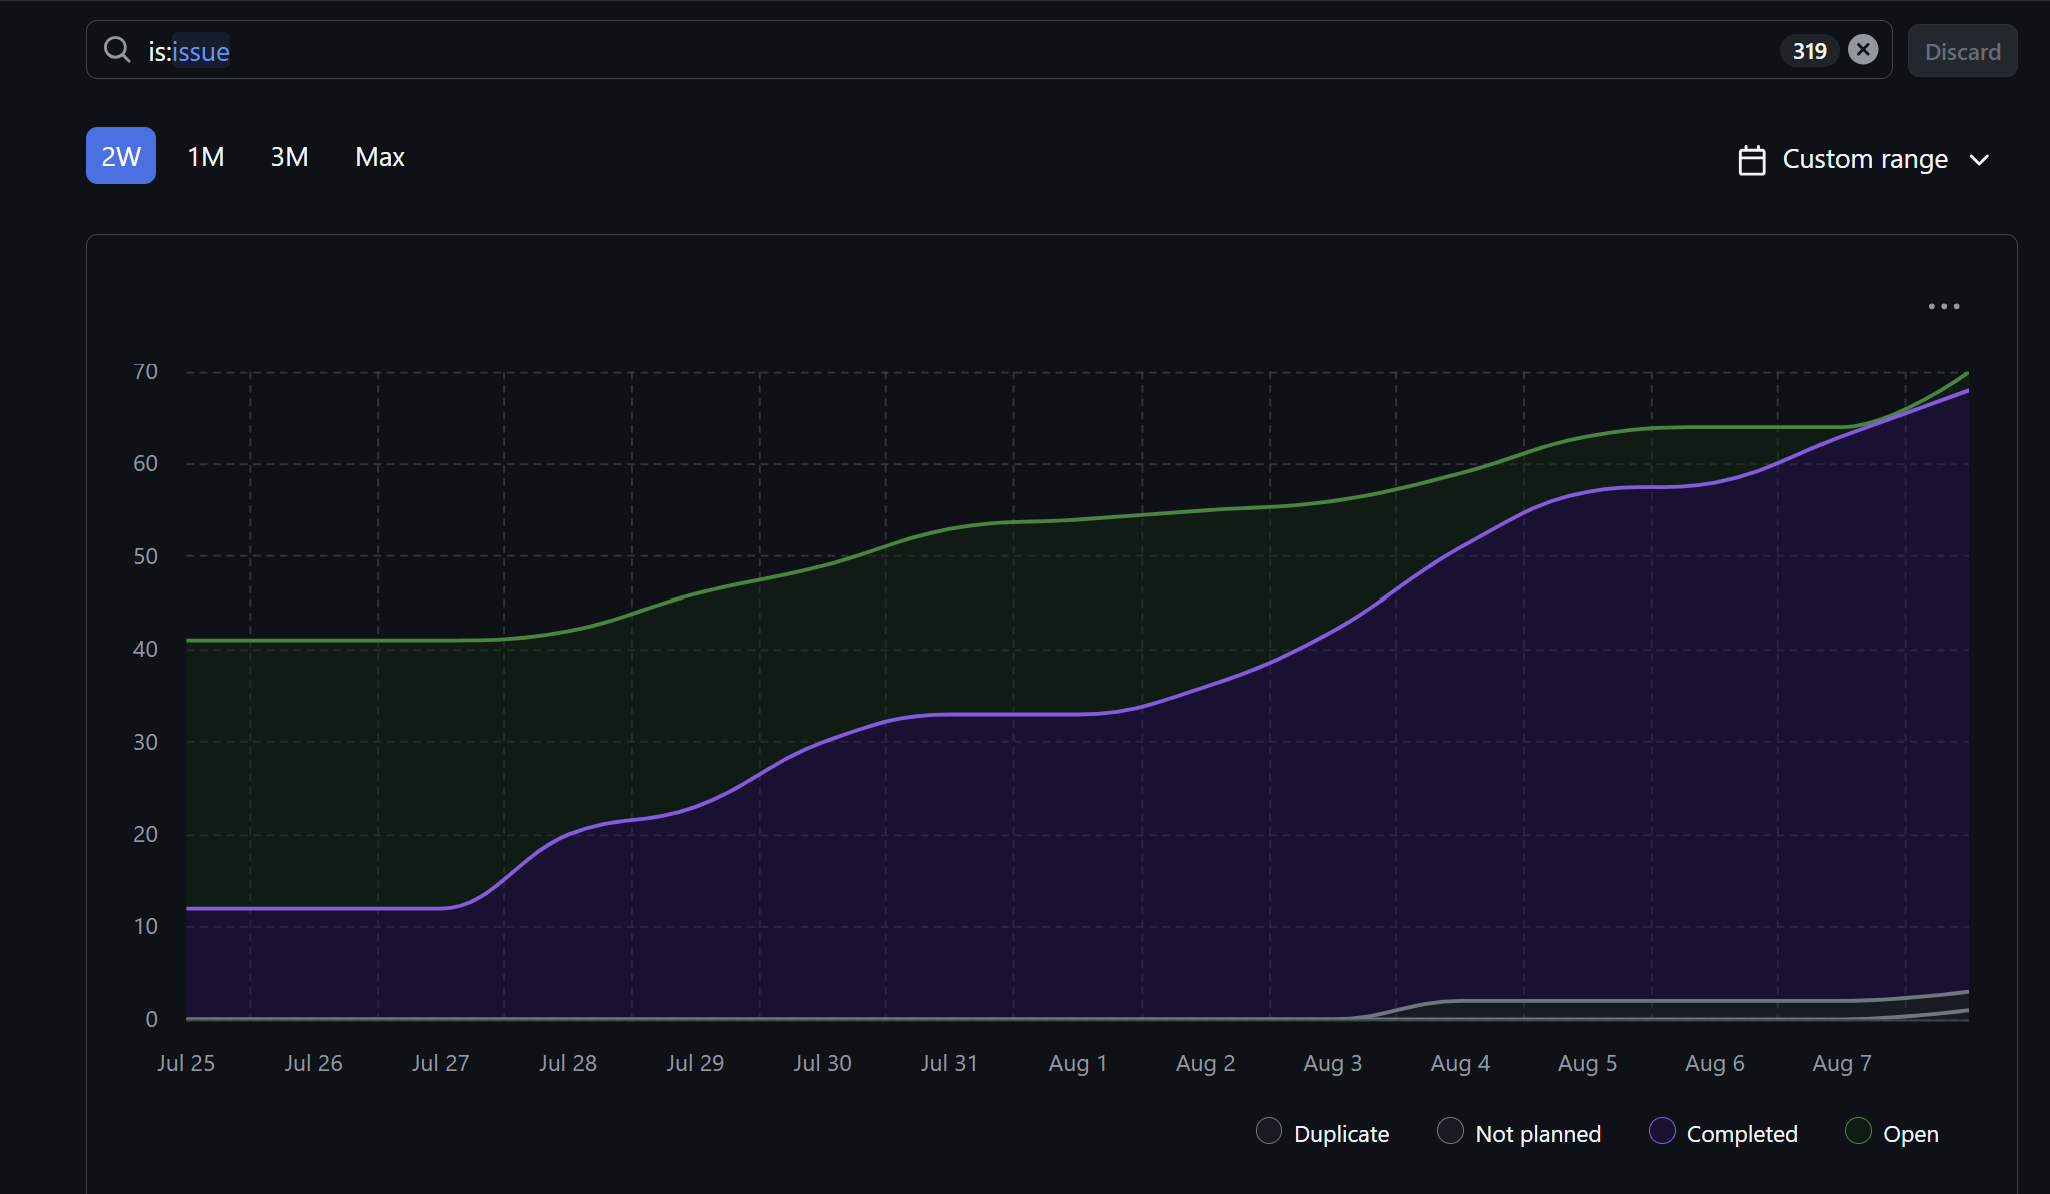
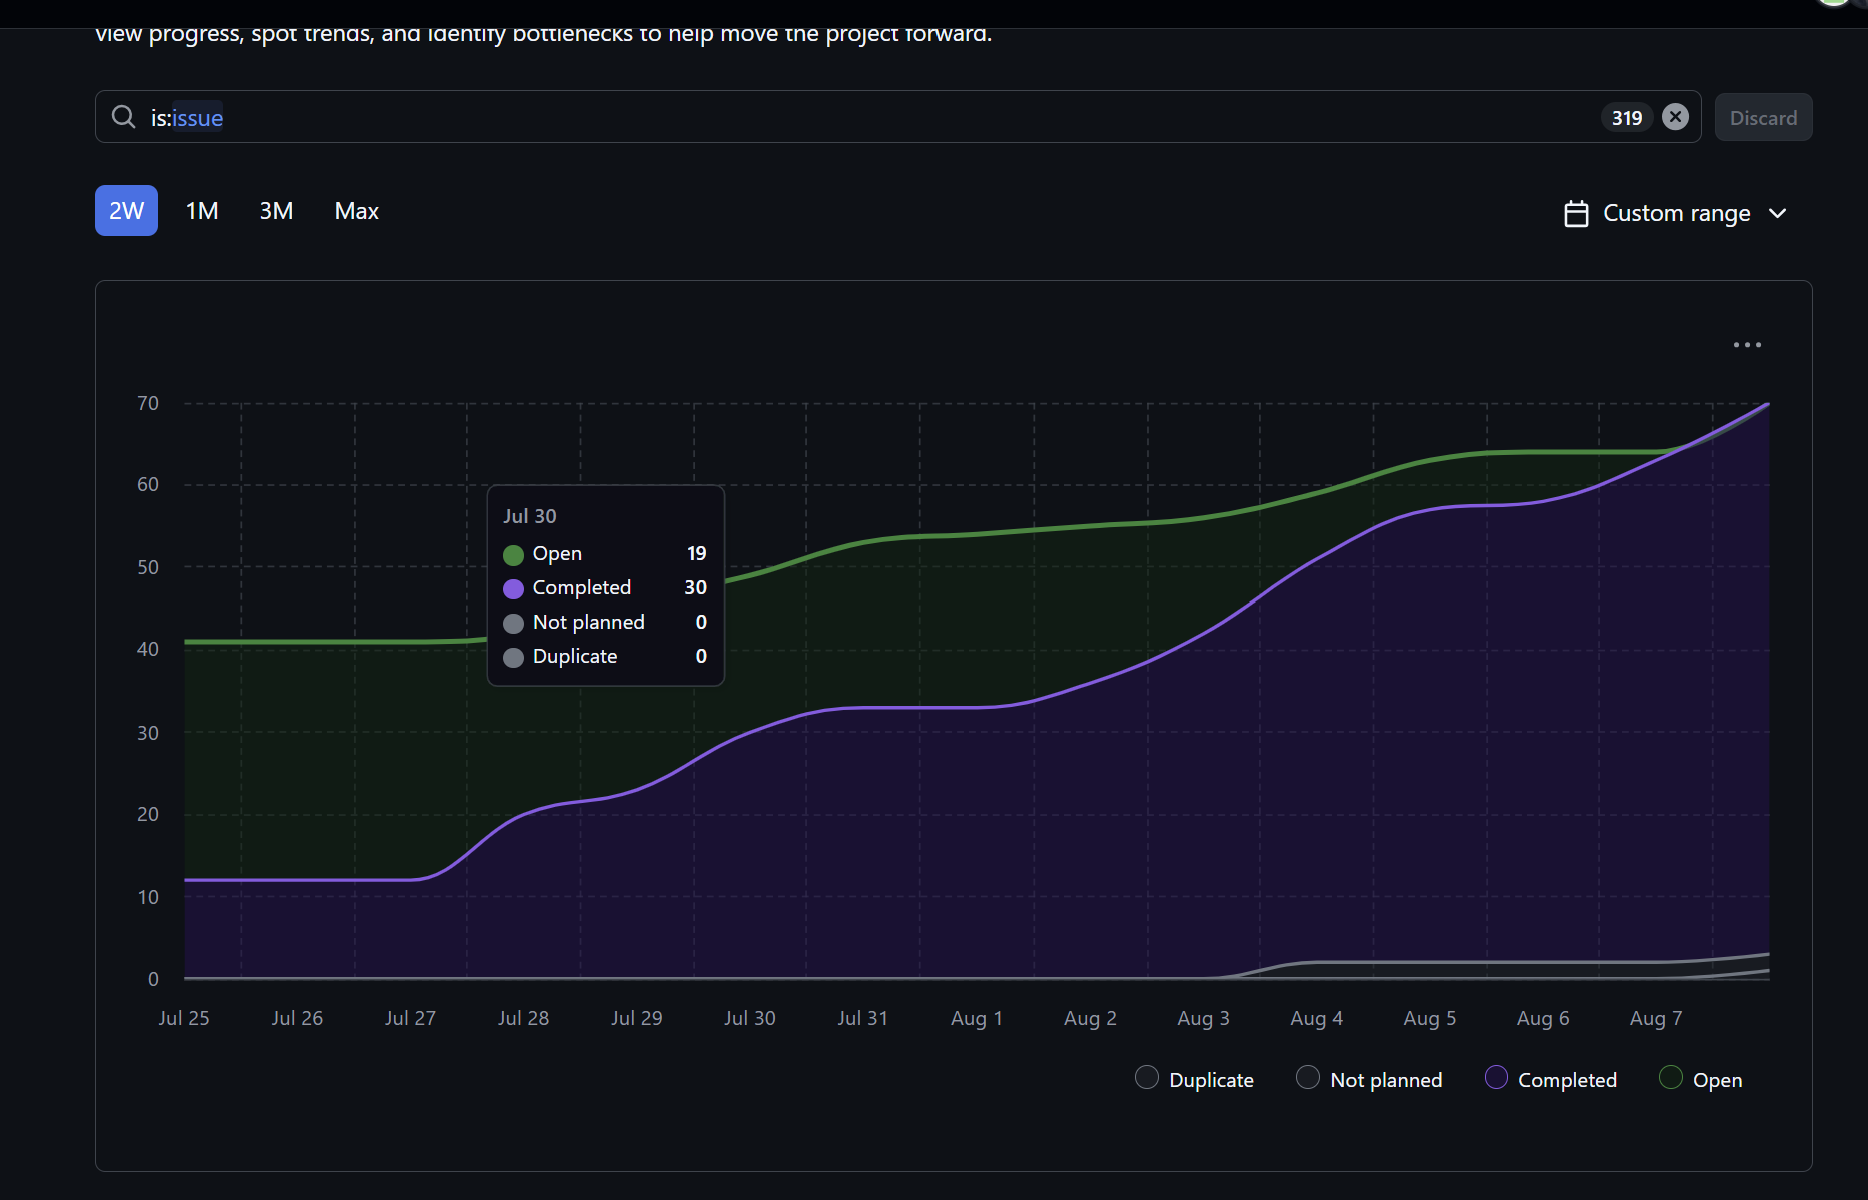
added team logs from aug 5-8

diff --git a/docs/weekly_logs/team/Aug_5-8.md b/docs/weekly_logs/team/Aug_5-8.md
@@ -53,7 +53,7 @@ All Completed, Submission for final report, presentation slides,demo video for c
 | Seiya       | 28:24        |
 
 
-![alt text](aug_5-8_images\time.png)
+![alt text](aug_5-8_images/time.png)
 
 ## Completed Tasks:
 | Task ID                                                                            | Description                                                                 | Completed By |
